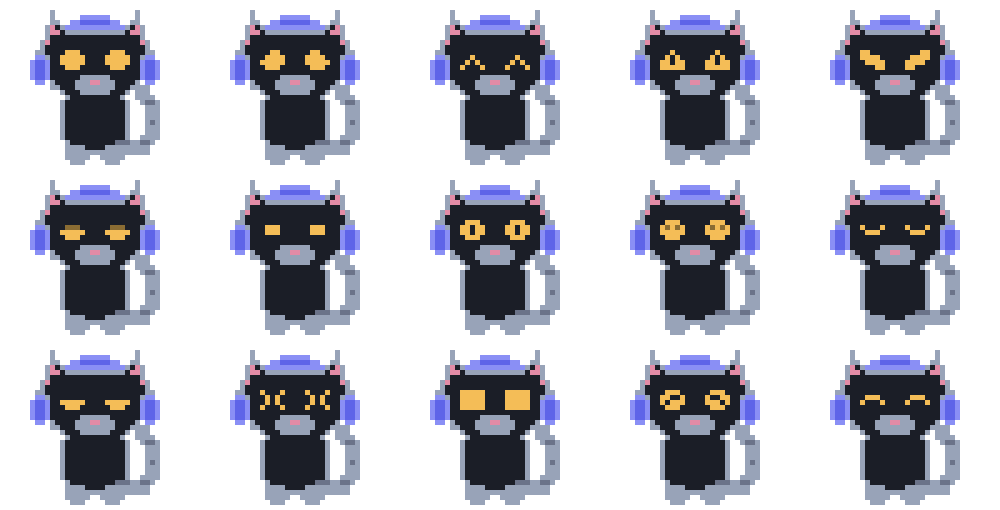
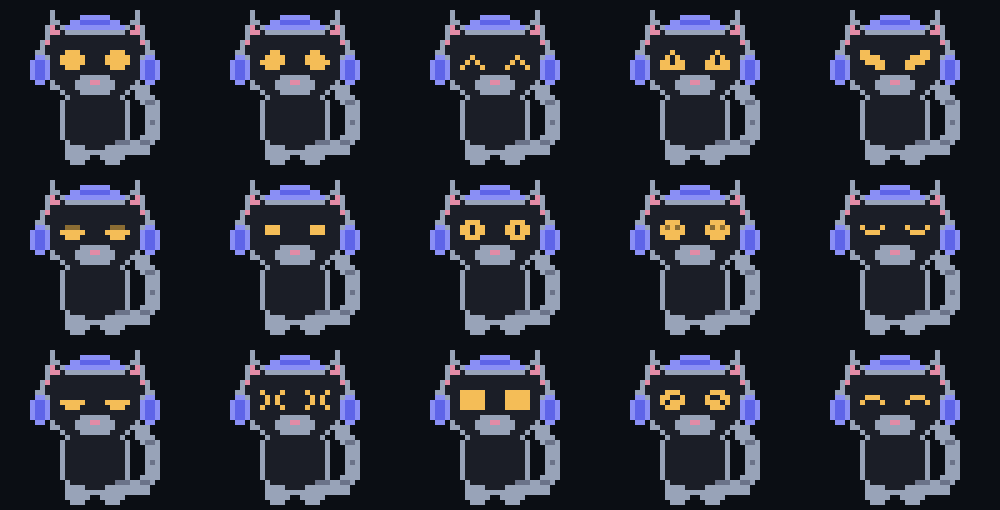
Compõe as folhas de sprite sobre o fundo em vez de furá-lo
O paste sem máscara fazia o alfa do sprite sobrescrever o fundo da folha, que
saía transparente. No tema escuro do GitHub o corpo do gato sumia e sobrava só
o contorno; no tema claro ficaria pior.

diff --git a/tools/make_sheets.py b/tools/make_sheets.py
@@ -33,7 +33,11 @@ def sheet(frames, cols):
     w, h = art.WIDTH * S, art.HEIGHT * S
     out = Image.new("RGBA", (w * cols, h * rows), BG)
     for i, im in enumerate(frames):
-        out.paste(im, ((i % cols) * w, (i // cols) * h))
+        pos = ((i % cols) * w, (i // cols) * h)
+        # com a mascara: o transparente do sprite compoe sobre o fundo escuro.
+        # sem ela, o alfa do sprite SOBRESCREVE o fundo e a folha sai furada --
+        # o corpo escuro do gato sumia no tema escuro do GitHub.
+        out.paste(im, pos, im)
     return out
 
 
